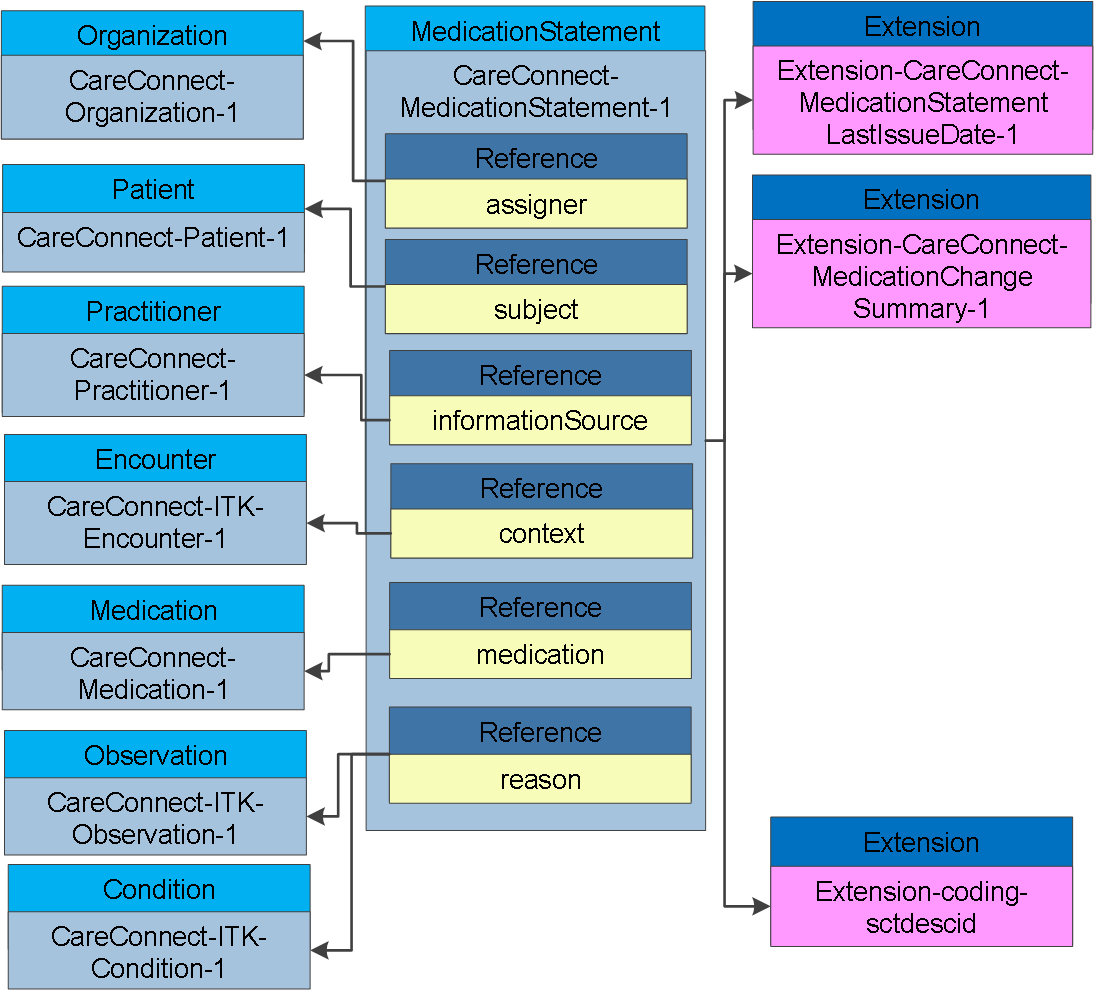
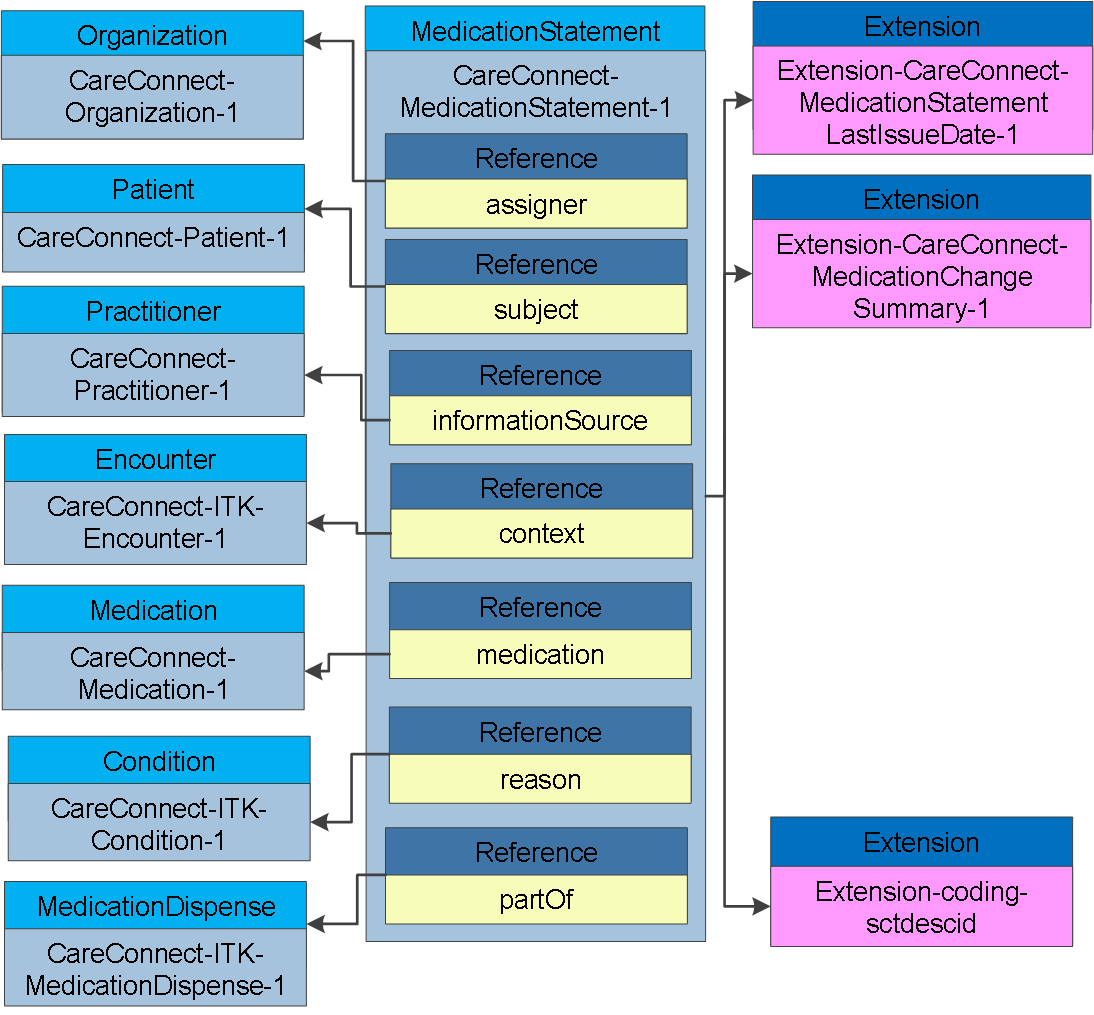
Added Medication Dispense

diff --git a/pages/design/build_allergy_list.md b/pages/design/build_allergy_list.md
@@ -121,7 +121,7 @@ PRSB valueSet applicable for certainty is as follows:
 <tr><td>Certain - [The agent is thought to be certain to have caused the reaction but this has not been confirmed by challenge testing.][SNOMED-CT::255545003] (Definite(qualifier value))</td></tr>       
 <tr><td>Confirmed by challenge testing - [The  reaction to the agent has been confirmed by challenge testing or other concrete evidence.][SNOMED-CT::410605003] Confirmed present (qualifier value))</td></tr></table>
 
-<table style="width:100%;max-width: 100%;"><tr><td>The FHIR element <b>AllergyIntolerance.verificationStatus</b> is mandatory and the ValueSet verficationStatus has a required terminology binding and uses values (unconfirmed | confirmed | refuted | entered-in-error)</td></tr>
+<table style="width:100%;max-width: 100%;"><tr><td>The FHIR element <b>AllergyIntolerance.verificationStatus</b> is mandatory and the ValueSet verificationStatus has a required terminology binding and uses values (unconfirmed | confirmed | refuted | entered-in-error)</td></tr>
 <tr><td> the values ( refuted | entered-in-error) <b>MUST NOT</b> be used for Transfer of Care Documents.</td></tr></table>
 
 The values Certain and Confirmed by Challenge = FHIR value "confirmed". The values Likely and Unlikely = FHIR value "unconfirmed". If <b>AllergyIntolerance.verificationStatus</b> is not known, then set to FHIR value "unconfirmed". If extra information about certainty is known, this should reported as a note. The ValueSet guidance for implementers is to default to FHIR value of "unconfirmed" for all Transfer of Care Document types.
@@ -142,7 +142,11 @@ The <b>AllergyIntolerance.reaction.manifestation</b> CodeableConcept ValueSet is
 
 ## Type of Reaction ##
 
-For the <b>AllergyIntolerance.type</b> FHIR has a required terminology binding using the values of (allergy | intolerance) - as this is a required ValueSet these values must be used.
+<table style="width:100%;max-width: 100%;">
+<tr>
+<tr><td>For the <b>AllergyIntolerance.type</b> FHIR has a required terminology binding using the values of (allergy | intolerance) - as this is a required ValueSet these values must be used.</td>
+</tr>
+</table>
 
 The values "Adverse Reaction" and "Not Known" are currently not supported However adverse reaction is closer to intolerance by the FHIR definition.
 An absence of AllergyIntollerance.type implies Not Known. Advice from FHIR patient care WGM is that adverse reaction should recorded under <b>AllergyIntolerance.reaction.description</b>.

diff --git a/pages/explore/explore_document_profiles.md b/pages/explore/explore_document_profiles.md
@@ -22,6 +22,7 @@ The Bundle consists of the following FHIR Resource Profiles.
 - **[CareConnect-ITK-Medication-List-1](https://fhir.nhs.uk/STU3/StructureDefinition/Careconnect-ITK-Medication-List-1)** - An NHS Digital Profile derived from the CareConnect List Profile for recording a snapshot of the list of Medications for the patient.
 - **[CareConnect-ITK-MedicationStatement-1](https://fhir.nhs.uk/STU3/StructureDefinition/CareConnect-ITK-MedicationStatement-1)** - An NHS Digital Profile derived from the CareConnect MedicationStatement profile. The MedicationStatement Resource is a record of a medication that is being consumed by a patient.
 - **[CareConnect-ITK-Medication-1](https://fhir.nhs.uk/STU3/StructureDefinition/CareConnect-ITK-Medication-1)** - An NHS Digital Profile derived from the CareConnect Medication profile. The Medication Resource is primarily used for the identification and definition of a medication.
+- **[CareConnect-ITK-MedicationDispense-1](https://fhir.hl7.org.uk/STU3/StructureDefinition/CareConnect-ITK-MedicationDispense-1)** - An NHS Digital Profile derived from the CareConnect MedicationDispense Profile. Indicates that a medication product is to be or has been dispensed for a named person/patient. This includes a description of the medication product (supply) provided and the instructions for administering the medication. 
 - **[CareConnect-ITK-Allergy-List-1](https://fhir.nhs.uk/STU3/StructureDefinition/CareConnect-ITK-Allergy-List-1)** - An NHS Digital Profile derived from the CareConnect List Profile for recording a snapshot of the list of Allergies for the patient.
 - **[CareConnect-ITK-AllergyIntolerance-1](https://fhir.nhs.uk/STU3/StructureDefinition/CareConnect-ITK-AllergyIntolerance-1)** - An NHS Digital Profile derived from the CareConnect AllergyIntolerance profile. The AllergyIntolerance Resource records Risk of harmful or undesirable, physiological response which is unique to an individual and associated with exposure to a substance.
 - **[CareConnect-ITK-Condition-List-1](https://fhir.nhs.uk/STU3/StructureDefinition/CareConnect-ITK-Condition-List-1)** - An NHS Digital Profile derived from the CareConnect List Profile for recording a snapshot of the list of Conditions for the patient.

diff --git a/pages/explore/explore_procedures.md b/pages/explore/explore_procedures.md
@@ -70,7 +70,7 @@ The Procedures section carries information about the procedures that have been p
 			<td>Details of any adverse reaction to any anaesthetic agents including local anaesthesia.  Problematic intubation, transfusion reaction, etc.</td>
 			<td>0 to many</td>
 			<td>O</td>
-			<td>Text and where supported a SNOMED CT concept to represent the anaesthesia issues carried in the FHIR element <b>Procedure.complication</b>.</td>
+			<td>Text and where supported a SNOMED CT concept to represent the anaesthesia issues carried in the FHIR element <b>Procedure.complication</b> and <b>Procedure.complicationDetail</b>.</td>
 		</tr>
 		<tr>
 			<td>Comment</td>
@@ -94,7 +94,7 @@ The Procedures section carries information about the procedures that have been p
 
 This text section should be linked to the following FHIR Resources to provide the textual information in a coded format.
 
-- Procedures
+- Procedure
  
 See constructing clinical coded structures - [Procedures](build_procedures.html)
 

diff --git a/pages/overview/overview_release_notes.md b/pages/overview/overview_release_notes.md
@@ -7,7 +7,20 @@ permalink: overview_release_notes.html
 summary: Summary release notes of the versions released in ITK3 Emergency Care eDischarge Implementation Guide
 ---
 
+## 2.4.0-beta ##
 
+**Profiles**
+
+- New CareConnect-ITK-MedicationResponse-1 Profile added to support TTOs (To take outs)
+- Updated CareConnect-ITK-MedicationStatement-1 to support reference to CareConnect-ITK-MedicationResponse-1.
+
+**Specification Pages**
+
+- Updated Profile page to include the new Profile
+- Updated Message Definitions
+- Added new MedicationDispense referencing diagram
+- Updated MedicationStatement referencing diagram to include MedicationDispense Resource
+- Update "Build medication list" pages 
 
 ## 2.3.0-beta ##
 

diff --git a/pages/explore/explore_per_com_record.md b/pages/explore/explore_per_com_record.md
@@ -62,11 +62,6 @@ The Person completing record section carries information about the person who co
 
 <script src="https://gist.github.com/IOPS-DEV/4eceababbca389067cde4aefd2d61cde.js"></script>
 
-## Coded Resources ##
-
-This text section should be linked to the following FHIR Resources to provide the textual information in a coded format.
-
-- The ITK3 FHIR Emergency Care eDischarge does not currently support coded Person completing record information.
 
 
 

diff --git a/pages/explore/explore_referrer_details.md b/pages/explore/explore_referrer_details.md
@@ -55,11 +55,7 @@ The Referrer details section carries a narrative summary of the episode. Where p
 
 <script src="https://gist.github.com/IOPS-DEV/324006a867ea11a33997dcb6148b289a.js"></script>
 
-## Coded Resources ##
 
-This text section should be linked to the following FHIR Resources to provide the textual information in a coded format.
-
-- The ITK3 FHIR Emergency Care eDischarge does not currently support coded referrer details.
 
 
 
